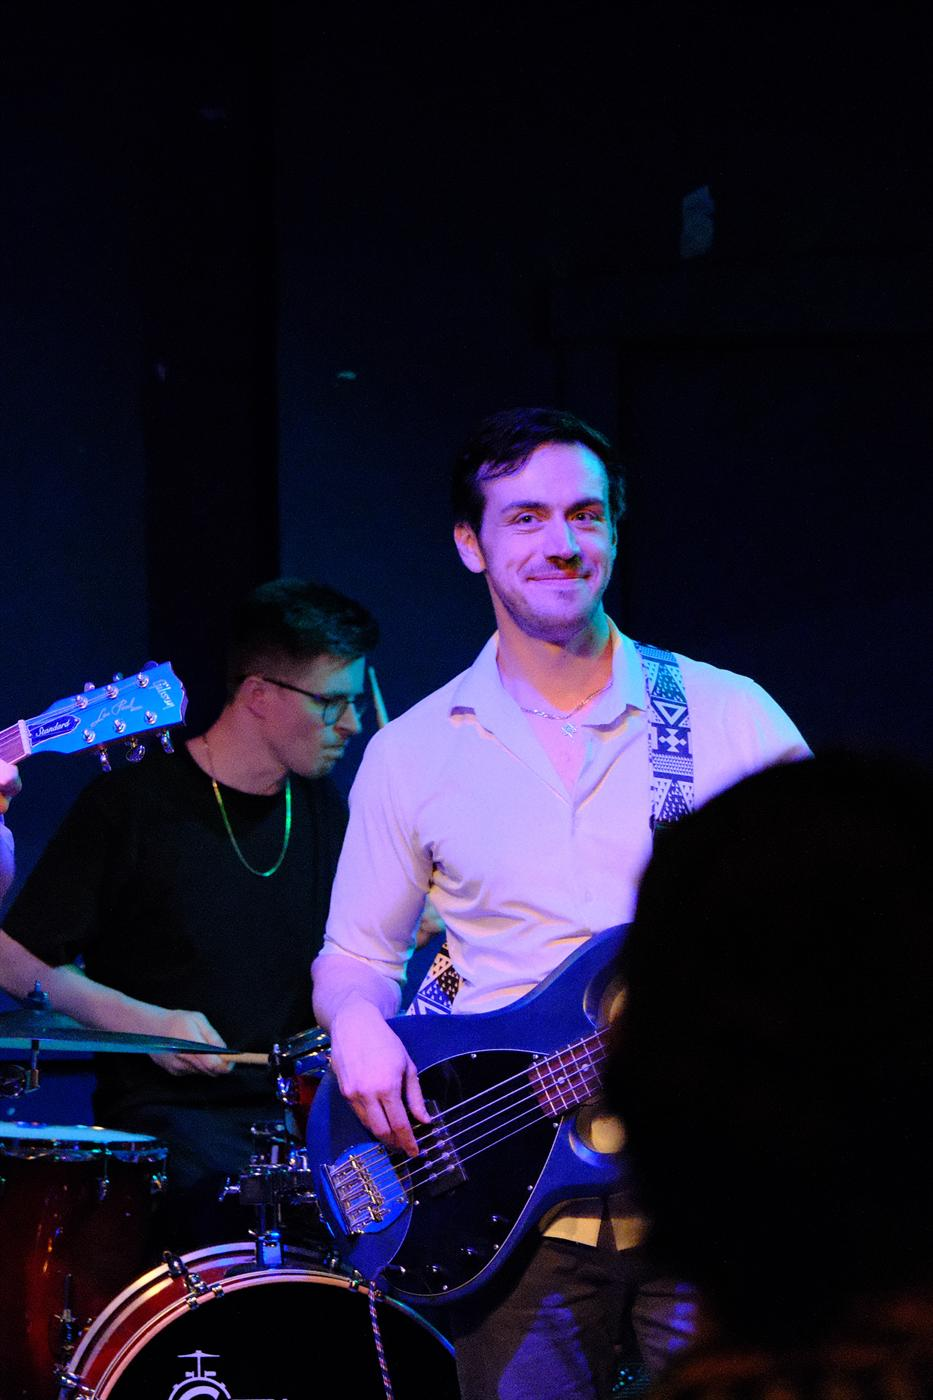
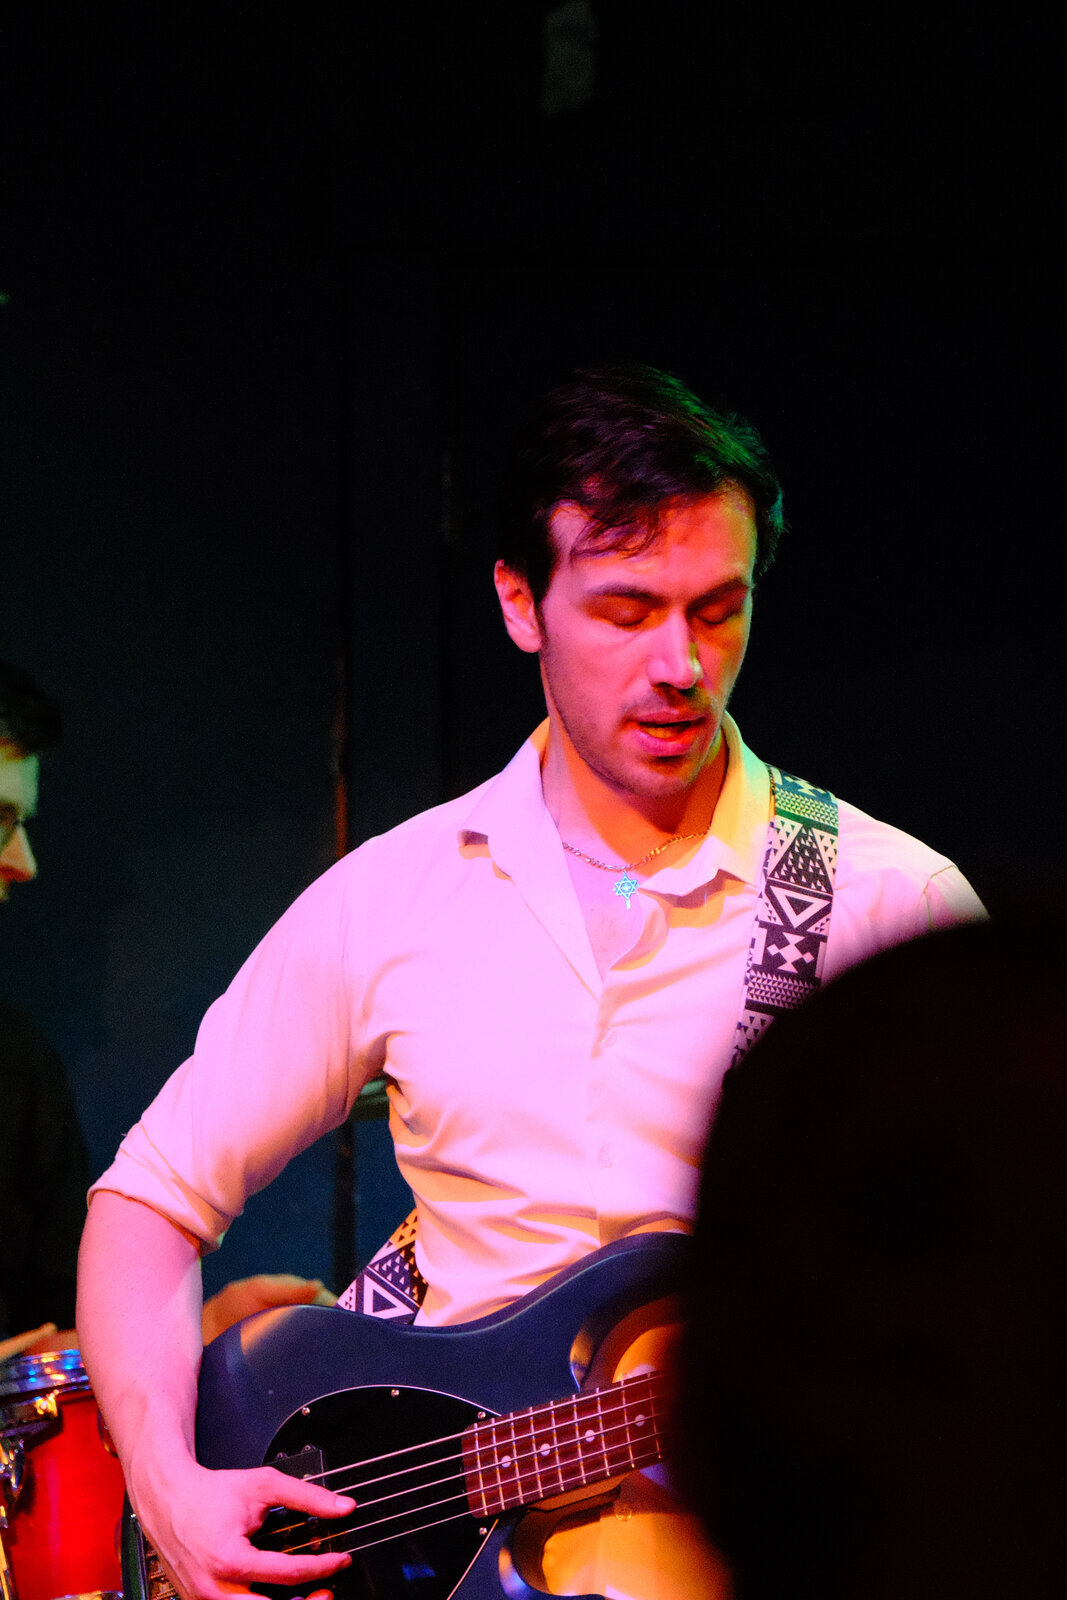
Swap in high-res Phyllis' photos from the photographer's originals
Bobby sent the full set (77 shots, ~7000px). Regenerated all six site copies
from the originals: the crowd/hero shot at 2400px to fix the soft full-bleed
hero on large screens, the rest at 1600px. Same filenames, so markup is
unchanged except the bassist alt text (the new frame is bass only, not
bass-and-drums). Originals archived in Drive raw/.

diff --git a/index.html b/index.html
@@ -156,7 +156,7 @@ testimonials: []
         <figcaption><a href="https://instagram.com/bcaldrone.photography" target="_blank" rel="noopener">@bcaldrone.photography</a></figcaption>
       </figure>
       <figure class="gallery-item">
-        <img src="images/gallery/2026-05-06-phyllis-04.jpg" alt="Bassist and drummer during a Midwest Honey set" loading="lazy" decoding="async">
+        <img src="images/gallery/2026-05-06-phyllis-04.jpg" alt="Midwest Honey's bassist mid-set at Phyllis' Musical Inn" loading="lazy" decoding="async">
         <figcaption><a href="https://instagram.com/bcaldrone.photography" target="_blank" rel="noopener">@bcaldrone.photography</a></figcaption>
       </figure>
     </div>

diff --git a/photos.html b/photos.html
@@ -41,7 +41,7 @@ gigs:
       - file: "2026-05-06-phyllis-02.jpg"
         alt: "Someone in the crowd filming Midwest Honey on a phone"
       - file: "2026-05-06-phyllis-04.jpg"
-        alt: "Bassist and drummer during a Midwest Honey set"
+        alt: "Midwest Honey's bassist mid-set at Phyllis' Musical Inn"
 ---
 
 <!-- PAGE INTRO -->
